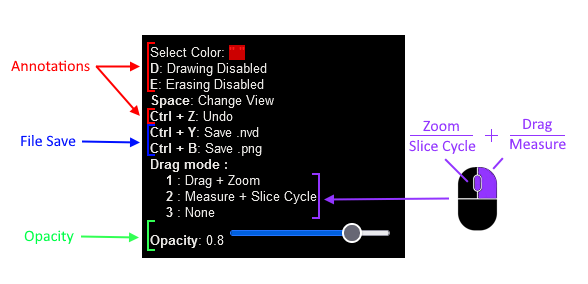
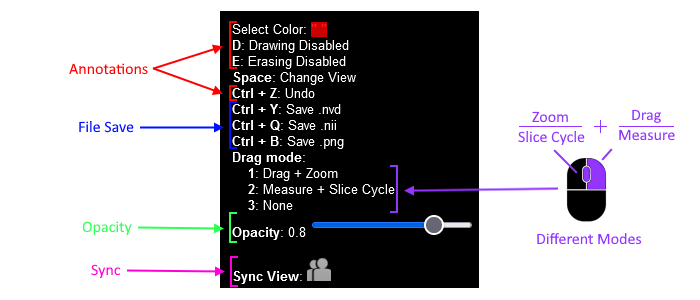
Update README.md & index.html

Changed region(s): [[0.0, 0.0282, 0.9796, 0.9859]]

diff --git a/PROTOTYPE7/index.html b/PROTOTYPE7/index.html
@@ -42,16 +42,16 @@
         <strong>Ctrl + Y</strong>: Save .nvd<br />
         <strong>Ctrl + Q</strong>: Save .nii<br />
         <strong>Ctrl + B</strong>: Save .png<br />
-        <strong>Drag mode :</strong><br />
+        <strong>Drag mode</strong>: <br />
         <div style="margin-left: 1rem;">
-            <strong>1</strong> : Drag + Zoom<br />
-            <strong>2</strong> : Measure + Slice Cycle<br />
-            <strong>3</strong> : None<br>
+            <strong>1</strong>: Drag + Zoom<br />
+            <strong>2</strong>: Measure + Slice Cycle<br />
+            <strong>3</strong>: None<br>
         </div>
         <div id="currentOpacity"><strong>Opacity</strong>: <span id="opacityLabel">0.8</span>
             <input type="range" min="0" max="1" value="0.8" step="0.1" class="slider" id="opacitySlider" />
         </div><br />
-        <strong>Sync View : </strong><span id="rtlink">
+        <strong>Sync View</strong>: <span id="rtlink">
             <img id='linklogo' src='logo/link.png' title='Realtime Collaboration' />
             <img id='linkselectedlogo' style='display:none' src='logo/link_selected.png'
                 title='Stop Realtime Collaboration' />

diff --git a/README.md b/README.md
@@ -3,6 +3,7 @@
 </p>
 
 ## Overview
+### Collaborative Segmentation Software
 A browser-based online annotation tool for 3D medical image volumes that allow annotations to be shared between users. The sharing feature allows images to be viewed across multiple users concurrently, and can sync viewing perspectives and drawings. For a shared viewing experience, changes made to a volume/image are updated automatically when a drawing is finished or a slice is changed.
 
 [Website](https://oopsuwu.github.io/MGH/PROTOTYPE7/)
@@ -43,11 +44,13 @@ The MGH project contains 3 types of synchronization features for easy collaborat
 | Change View    | Changes the canvas to display different perspectives of the 3D medical image |
 | Undo           | Removes the latest annotation created                                        |
 | Save .nvd      | Saves the medical image with annotations, can be uploaded to re-annotate     |
+| Save .nii      | Saves the annotations only                                                   |
 | Save .png      | Saves the current image slice with annotations                               |
 | Opacity Slider | Changes opacity of the annotations: 0 - Clear, 1 - Opaque                    |
 | Slice Cycle    | Changes the canvas to display different slices of the 3D medical image       |
 | Zoom           | Move closer or further from the canvas                                       |
 | Measure        | Measures length from the starting to ending point with units in millimeters  |
+| Sync View      | Enables and disables both annotation and image view sync                     |
 
 ## Supported Images
 | Formats      | File Type                                                                                                                 |
